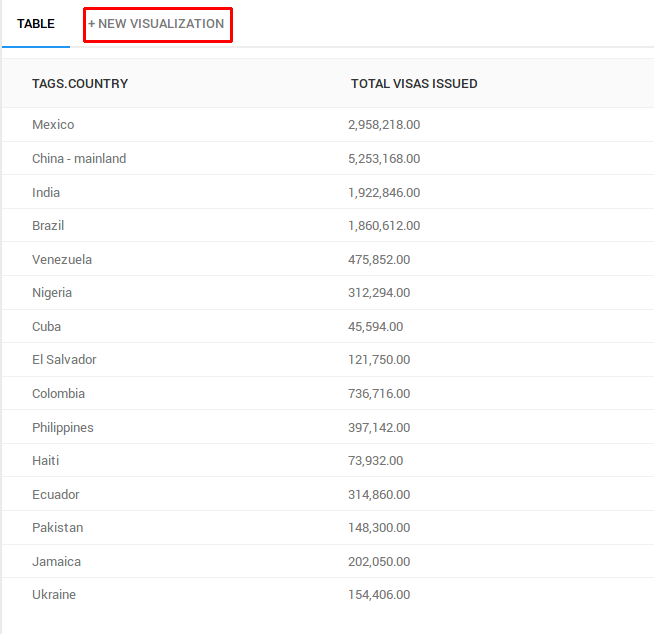
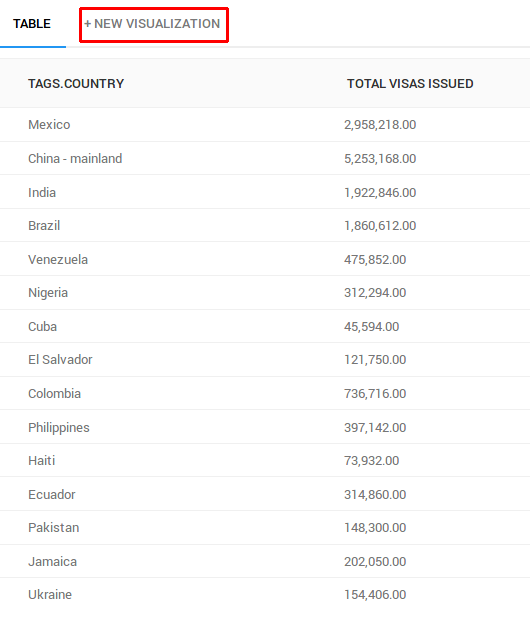
us-visa

diff --git a/USVisa/README.md b/USVisa/README.md
@@ -15,7 +15,7 @@ this article contains instructions on how to install your own ATSD instance and 
 ### U.S. Visa Dataset
 ---------------------
 
-Let's take a look at the dataset from [travel.state.gov](travel.state.gov), which can be accessed via our archive located [here](Resources/visas.tar.gz). Alternatively, you can
+Let's take a look at the dataset from travel.state.gov, which can be accessed via our archive located in our [Resources](Resources/visas.tar.gz) folder in this repository. Alternatively, you can
 download the Excel file from the [travel.state.gov](https://travel.state.gov/content/visas/en/law-and-policy/statistics/non-immigrant-visas.html) website and save each year as its
 own seperate CSV file. The title of the Excel file is **Nonimmigrant Visa Issuances by Visa Class and by Nationality FY1997-2015 NIV Detail Table**.    
 
@@ -56,7 +56,7 @@ You can explore this portal by clicking on the below button:
 ------------------------------------
 
 Countries with the greatest number of O-1 visa, which is a work visa for individuals with exceptional abilities. The brain-drain from other countries has steadily grown over the 
-years, especially from the U.K., which in 2015 had **2,630** O-1 visas issued.
+years, especially from the U.K., which in 2015 had **2,630** O-1 visas issued. In comparison, China only had **515** O-1 visas issued in 2015. 
 
 ![Figure3](Images/Figure3.png)
 
@@ -94,7 +94,8 @@ You can explore this portal by clicking on the below button:
 In addition to outputs from Chart Lab, ATSD is also capable to perform [SQL queries](https://github.com/axibase/atsd-docs/blob/master/api/sql/README.md#overview), 
 which can be used to search for specific information contained in this dataset. You can read more about our SQL syntax [here](https://github.com/axibase/atsd-docs/blob/master/api/sql/README.md#syntax).
 
-This query shows the number of the most popular visas issued world wide, except for B (travel), C (transit), G (government), and A (diplomatic).
+This query shows the number of the most popular visas issued world wide, except for B (travel), C (transit), G (government), and A (diplomatic). We can see that by far the greatest
+number of visas issued except for type B, C, G, and A is the F-1 (student visa), of which 644,233 were issued. 
 
 ```sql
 SELECT tags.visa_type, sum(value) 
@@ -212,7 +213,8 @@ ORDER BY 3 DESC
 | Costa Rica          | 35449.0   | 58139.0    | 64.0               | 4.6     | 
 ```
 
-Total revenue for travel visas (in millions of USD) for the state department at $160 per visa from 1997 to 2015:
+Total revenue for travel visas (in millions of USD) for the state department at $160 per visa from 1997 to 2015. Revenue from visas has more than doubled, from **$491.3 million**
+in 1997 to **$1.152 billion** in 2015.  
 
 ```sql
 SELECT date_format(time, 'yyyy') AS "year", sum(value) * 160 / power(10, 6) AS "Visa Fees, $M"
@@ -248,7 +250,7 @@ GROUP BY datetime
 
 Of the **$1.152 billion** that the U.S. made from non-immigration visas, how much of that was earned from visa applications that were denied? We can load visa refusal rates from
 [travel.state.gov](https://travel.state.gov/content/dam/visas/Statistics/Non-Immigrant-Statistics/RefusalRates/FY16.pdf) into ATSD as a replacement table, and then calculate the
-total dollar amount earned from visas that were denied. In 2015 Mexico topped the list for paying the most for refused visa applications at **$145,316,514.6**.
+total dollar amount earned from visas that were denied. In 2015 Mexico topped the list for paying the most for refused visa applications at **$145,316,514.6**. 
 
 ```sql 
 SELECT tags.country, sum(value) as 'Total Visas Issued', 
@@ -301,7 +303,7 @@ ORDER BY 'Refusal Fees' DESC
 
 SQL queries allow you search for and display specific information from a dataset in tabular format, but you are not able to directly output these tables in ATSD.
   
-Axibase is partnered with [Redash](https://redash.io/), which is a open source data visualization tool. You can plug in your query results, and with a few simple steps, create
+Axibase is partnered with [Redash](https://redash.io/), which is a open source data visualization tool. You can plug in your query results into Redash, and with a few simple steps, create
 graphical outputs for your SQL queries. Begin by walking through [setting up Redash though ATSD](https://github.com/axibase/website/blob/master/user-guide/data-sources/atsd.md). 
 The set up time should take you about 10 minutes.
      
@@ -317,7 +319,7 @@ Let's begin by preparing a visualization for our last SQL query looking at refus
 
 3. Press Execute!
       
-4. After selecting execute, you should see a table output like in the image below. Click on '+New Visualization', as shown in the image below.
+4. After selecting execute, you should see a table output like in the image below. Click on 'New Visualization', as shown in the image below.
         
    ![Figure8](Images/Figure8.png)
        
@@ -330,24 +332,30 @@ Let's begin by preparing a visualization for our last SQL query looking at refus
  
    ![Figure10](Images/Figure10.png)
    
-7. Below is our output from our query. You can toggle over any column to see what the visa refusal fees were for that particular country in 2015. By selecting the 'Save' button,
-   you can save the configuration and come back to it anytime. By selecting the 'Publish' button, you can make this configuration available to anybody else that shares the same
-   system credentials with you.  
-    
-   ![Figure11](Images/Figure11.png)
+Below is our output from our query. You can toggle over any column to see what the visa refusal fees were for that particular country in 2015. By selecting the 'Save' button,
+you can save the configuration and come back to it anytime. By selecting the 'Publish' button, you can make this configuration available to anybody else that shares the same
+system credentials with you. As opposed to looking only at a tabular output from a SQL query, we can quickly see the scale of things looking at this output.  
    
-Here are some additional Redash charts for some of the queries that were include earlier in this article.
+![Figure11](Images/Figure11.png)
+   
+Here are some additional Redash charts for some of the queries that were include earlier in this article. The below figure shows the worldwide visa issuances (excluding travel, 
+diplomats, government, transit).
 
-Top 20 countries with the most B-1,2 visas issued for 2005 and 2015 (1st figure), as well as the compound annual growth rate for these countries (2nd figure).    
-   
+![Figure14](Images/Figure14.png)
+
+These two figures show the top 20 countries with the most B-1,2 visas issued for 2005 and 2015 (1st figure), as well as the compound annual growth rate for these countries (2nd figure). Looking at these
+outputs, we can see that Brazil and China have experienced tremendous growth in terms of the number visa issued from 2005 to 2015, as well as the compounded annual growth rate.
+What may not have stood out from the tabular SQL query output is that while the number of visas issued to Vietnam has remained relatively small, the compounded annual growth
+rate in this 10 ten period was **30.2%**, which came in 2nd only behind Brazil (which finished at 35.6%). 
+    
 ![Figure12](Images/Figure12.png)
 
 ![Figure13](Images/Figure13.png)
 
-Worldwide visa issuances (excluding travel, diplomats, government, transit).
+Travellers have come from all of the world to come to America. With over 200 countries and 84 visa types included in this dataset, the possibilities for travel documents seem endless.
+Using ATSD can help you make sense of all this information. You can use Chart Lab to create interactive graphs which allow you to gain a general view of the situation; SQL queries 
+to search for specific minutia contained within the datset; and Redash to display this specifically searched for information in a clear and concise manner.  
 
-![Figure14](Images/Figure14.png)
-   
 ### Action Items
 ----------------
 
@@ -382,6 +390,7 @@ Below are the summarized steps to follow to install local configurations of ATSD
 4. Login into ATSD and configure the pre-defined administrator account.
 5. Import the [`travel_visas.xml`](Resources/travel_visas.xml) file into ATSD. For a more detailed description, refer to step 9 from the following [step-by-step walkthrough](https://github.com/axibase/atsd-use-cases/blob/master/USMortality/configuration.md) from our article on [U.S. mortality statistics](https://github.com/axibase/atsd-use-cases/blob/master/USMortality/README.md). 
 6. Import the [`visas.tar.gz`](Resources/visa.tar.gz) file into ATSD using the the above mentioned parser.
+7. Import the `2016_VisaRefusalRates.csv` replacement table into ATSD. Refer to steps 7 and 8 from the walkthrough mentioned above.
 7. Navigate to the Docker machine IP at port 5000, where you should see a Redash login screen.
 8. Follow the steps in [ATSD datasource guide](https://github.com/axibase/website/blob/master/user-guide/data-sources/atsd.md) to create a read-only account in ATSD and add a new ATSD datasource in Redash.
 9. Create a sample query configuration, and execute the following query to validate the integration:
@@ -398,3 +407,9 @@ If you require assistance in installing this software or have any questions, ple
 -----------
 
 Title Photo: http://www.siam-legal.com/US_Visa/k1-visa-thailand.php
+
+### Additional SQL Queries
+--------------------------
+
+Here are some additional SQL queries (along with snippets of their outputs) which take a closer look at some of the visa statistics from this dataset.
+
